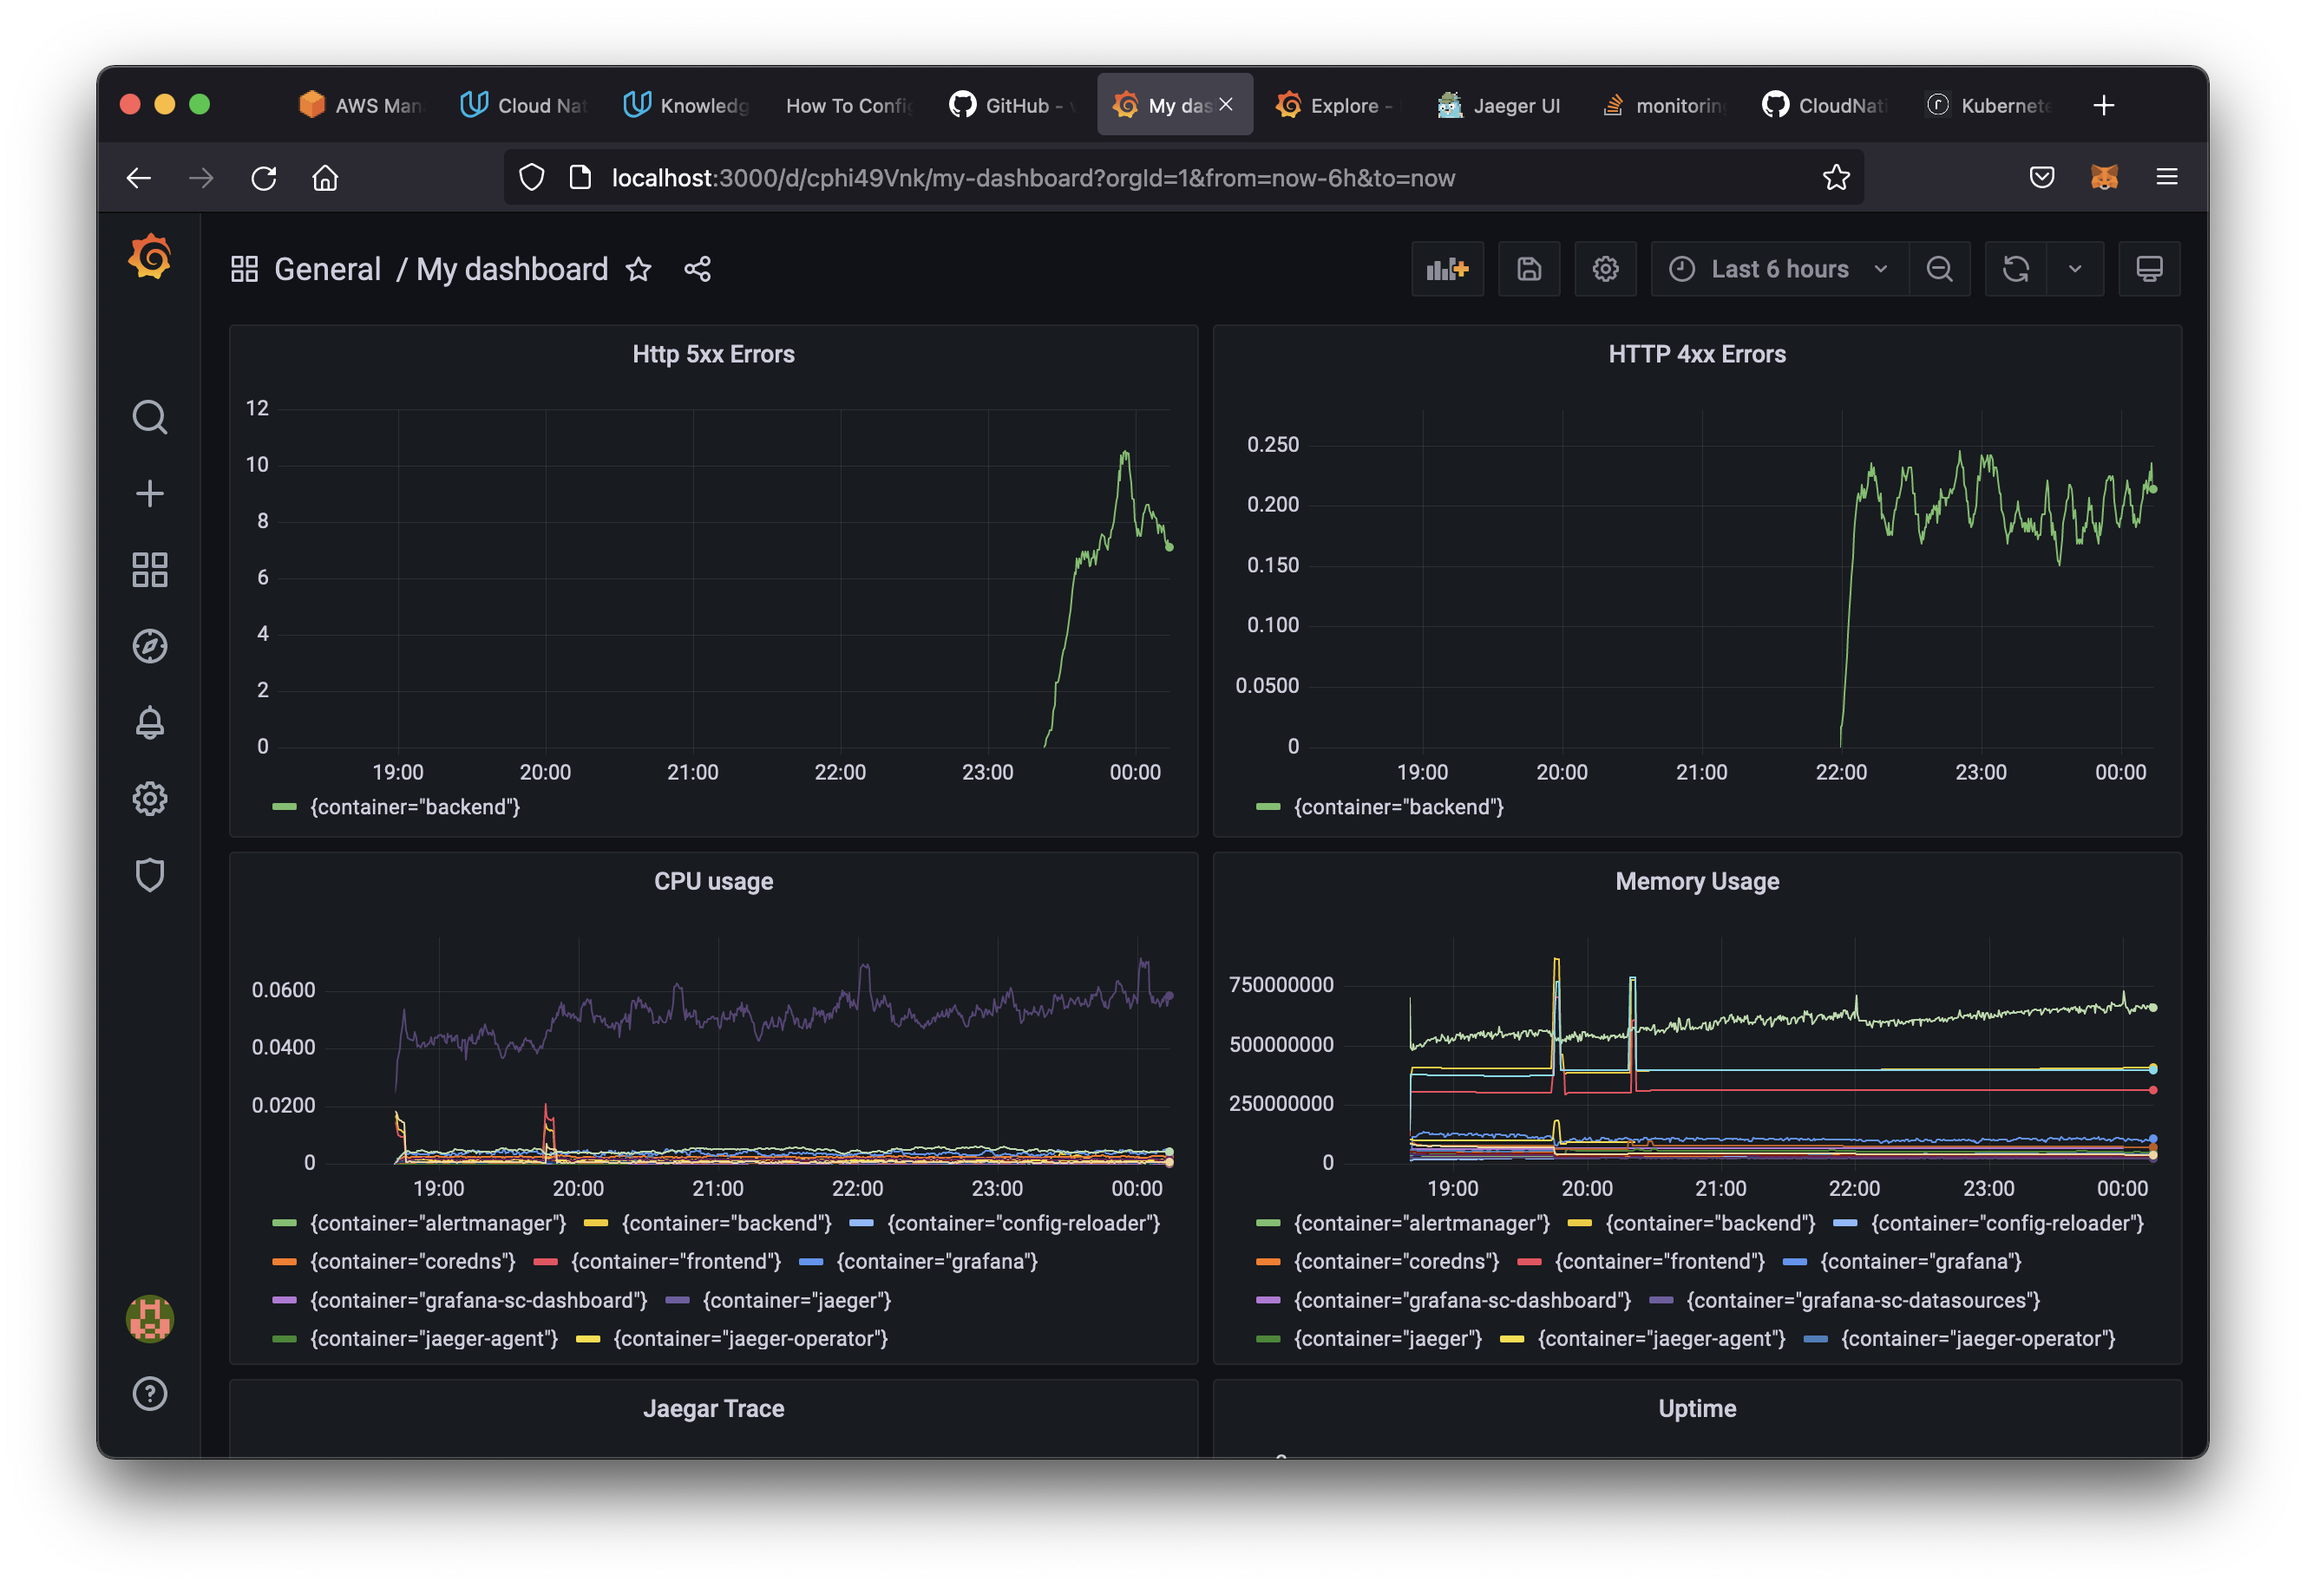
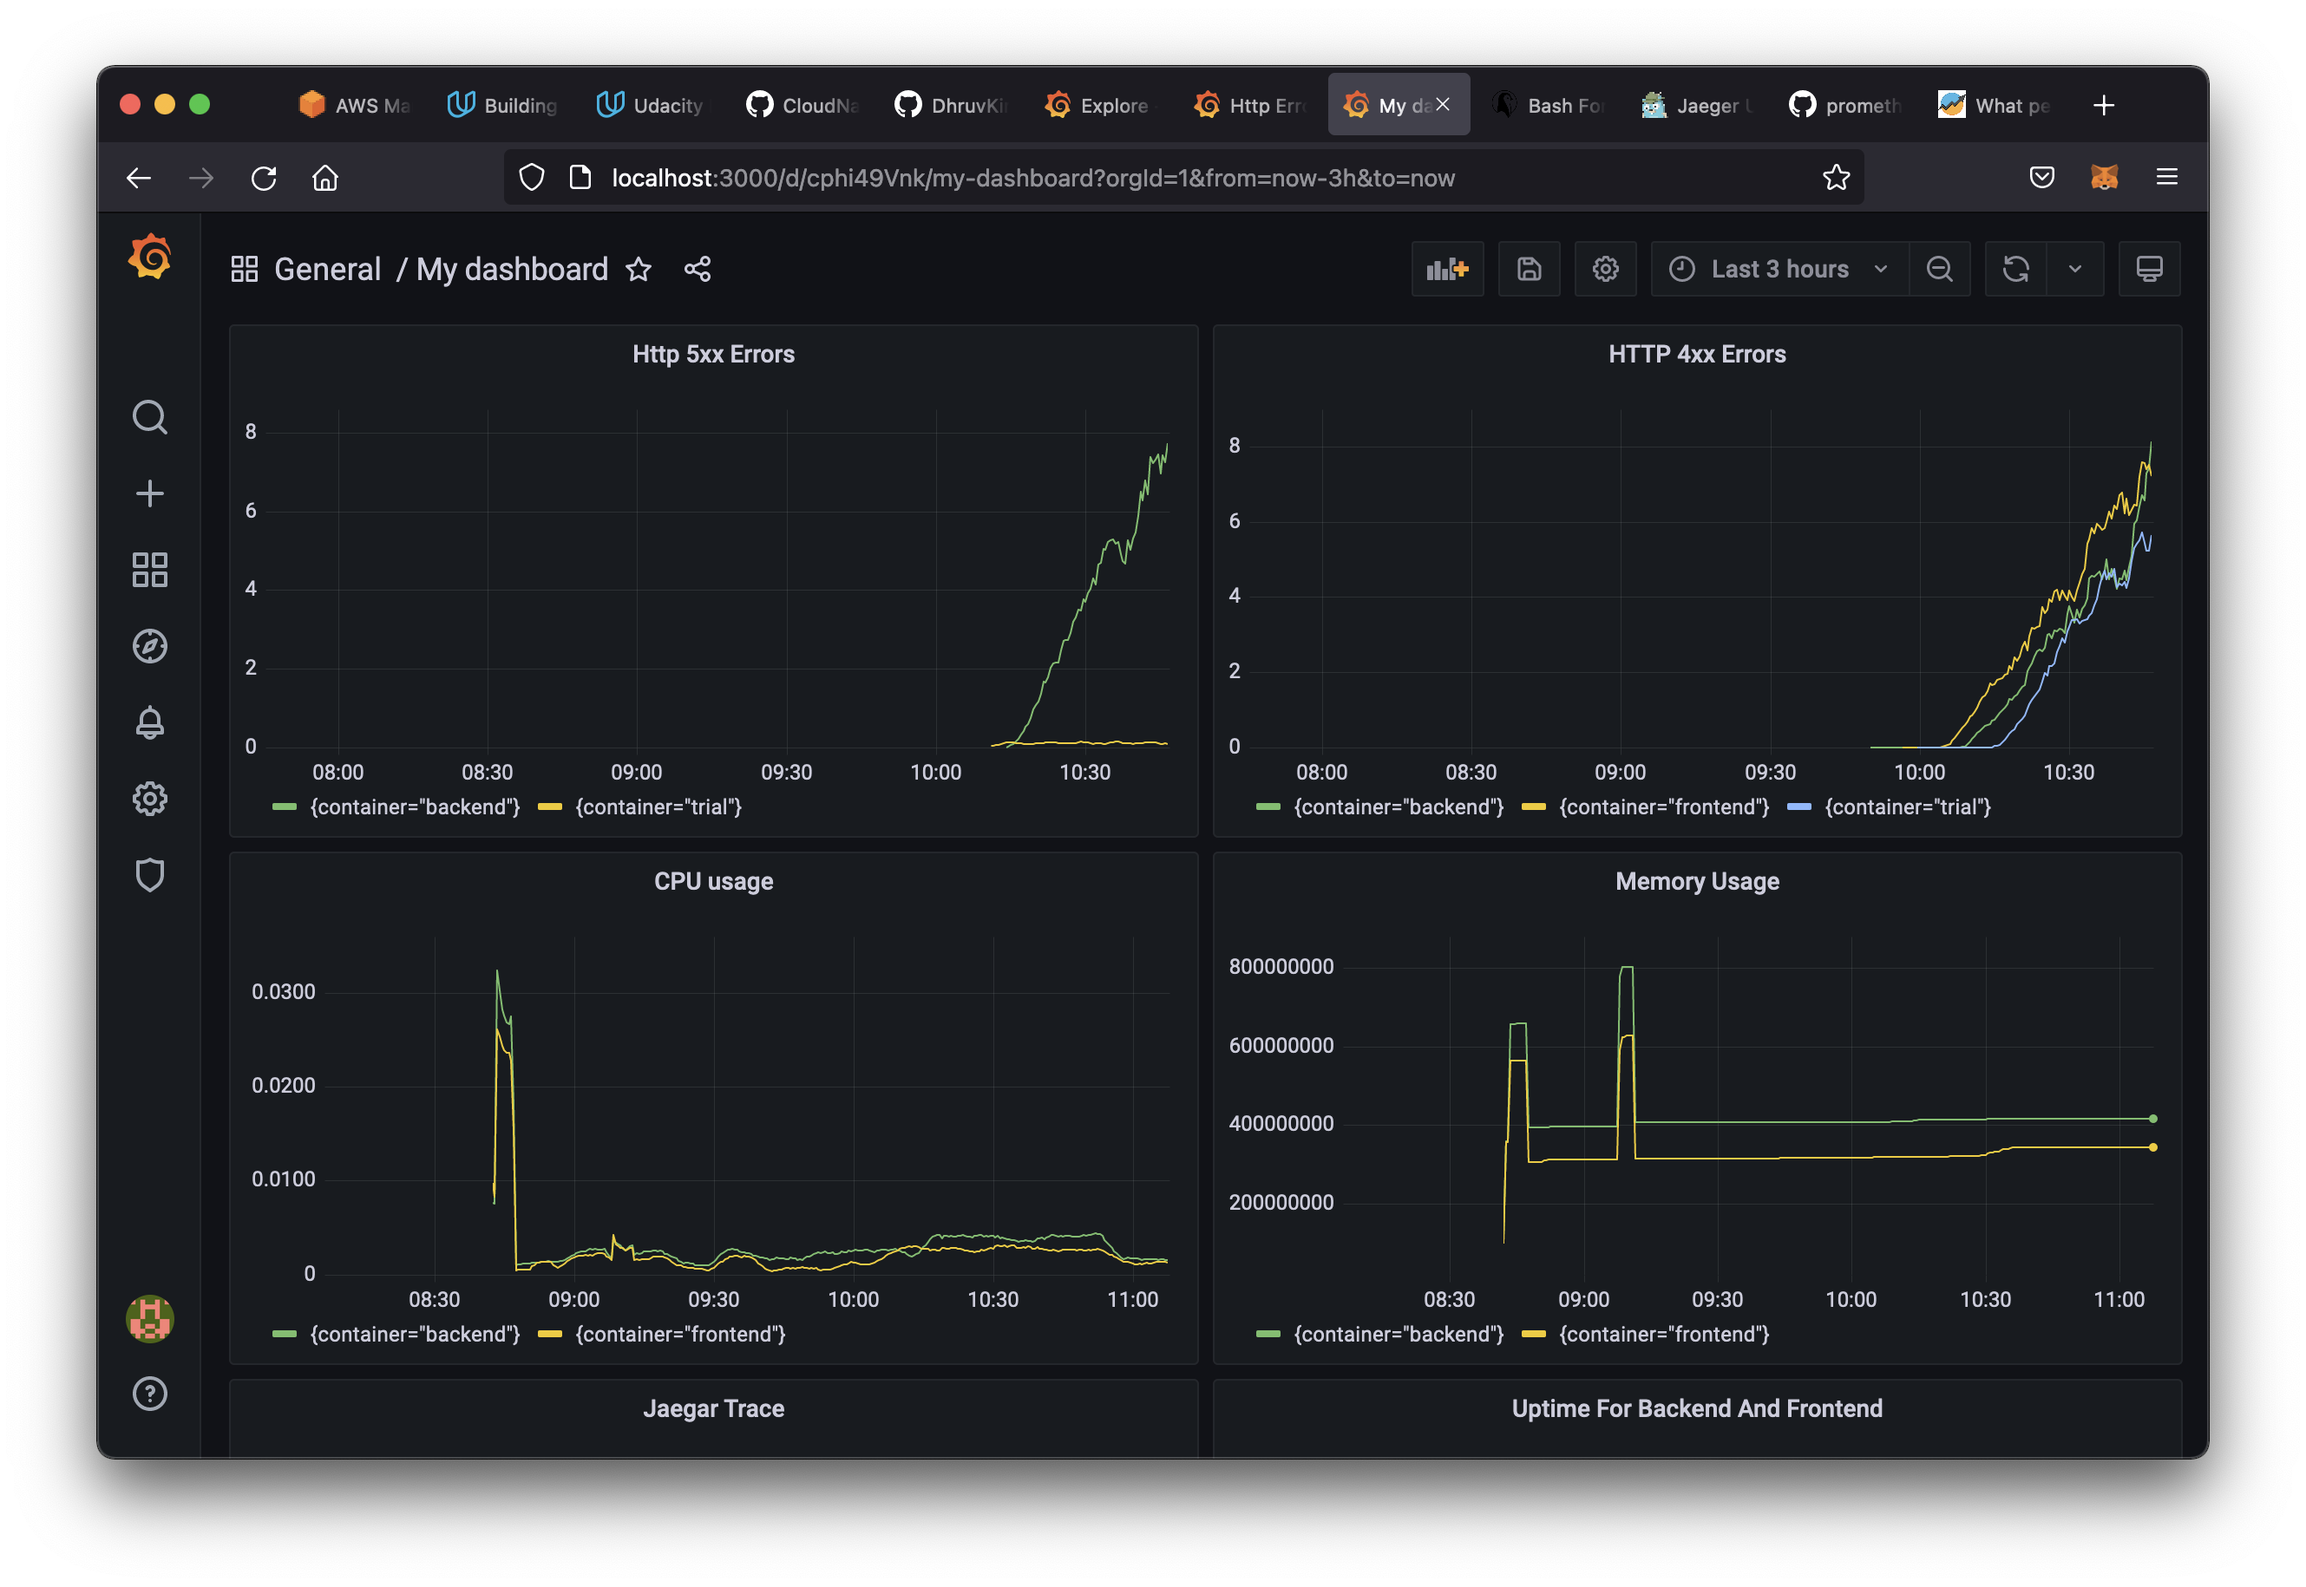
Update README.md

diff --git a/README.md b/README.md
@@ -37,6 +37,8 @@
 *TODO:* Create a dashboard to measure the uptime of the frontend and backend services We will also want to measure to measure 40x and 50x errors. Create a dashboard that show these values over a 24 hour period and take a screenshot.
 ![HTTP Errors](answer-img/http_error.png)
 
+![Uptime](answer-img/uptime_graph.png)
+
 ## Tracing our Flask App
 *TODO:*  We will create a Jaeger span to measure the processes on the backend. Once you fill in the span, provide a screenshot of it here.
 ![Jaegar Traces](answer-img/jaegar_traces.png)
@@ -71,10 +73,24 @@ Description: Sending a post request to the `/star` endpoint returns a 500 status
 - Service uptime should be greater than 99.95%
 - HTTP status code should be 20X for more than 99.95% of requests
 - HTTP status code should be 50X or 40x for less than 0.05% of requests
+- HTTP request average response time should be less than 100ms.
 
 
 ## Building KPIs for our plan
 *TODO*: Now that we have our SLIs and SLOs, create KPIs to accurately measure these metrics. We will make a dashboard for this, but first write them down here.
+
+- Service uptime should be greater than 99.95%
+    - Using the prometheus `up` function we can track the uptime value of all containers.
+- HTTP status code should be 20X for more than 99.95% of requests
+    - The `flask_prometheus_exporter` provides us metrics from inside the flask applications. We can calculate the percentage of requests with 20x status code using the `flask_http_request_total` metric from the exporter.
+- HTTP status code should be 50X or 40x for less than 0.05% of requests
+    - The `flask_prometheus_exporter` provides us metrics from inside the flask applications. We can calculate the percentage of requests with 5xx or 4xx status code using the `flask_http_request_total` metric from the exporter.
+- HTTP request average response time should be less than 100ms.
+    - The `flask_prometheus_exporter` provides us metrics from inside the flask applications. We can calculate the the latency of requests using the `flask_http_request_duration_seconds_sum` and `flask_http_request_total` metrics from the exporter.
+- CPU usage should be less than 70%
+    - The node_exporter provides metrics for the containers in a cluster. The `container_cpu_user_seconds_total` metric can be used in tracking this in the cluster.
+- Memory usage should be less than 70%.
+    - The node_exporter provides metrics for the containers in a cluster. The `container_memory_usage_bytes` metric can be used in tracking this in the cluster.
 
 - Service uptime all applications should be greater than 99.95%
 - HTTP request average response time should be less than 100ms.
@@ -85,11 +101,18 @@ Description: Sending a post request to the `/star` endpoint returns a 500 status
 ## Final Dashboard
 *TODO*: Create a Dashboard containing graphs that capture all the metrics of your KPIs and adequately representing your SLIs and SLOs. Include a screenshot of the dashboard here, and write a text description of what graphs are represented in the dashboard.  
 
-- Http 4xx Error, Http 5xx Error, Memory Usage, CPU usage
+- The graph below has the following KPIs:
+    - HTTP 5xx Error - This displays the number of 5xx status codes from both the frontend and backend
+    - HTTP 4xx Errors - This displays the number of 4xx status codes from both the frontend and backend
+    - CPU Usage - This keeps track of the CPU usage in both the frontend and backend
+    - Memory Usage - This keeps track of the Memory usage in both the frontend and backend
 
 ![Final Graph](answer-img/final_graph_1.png)
 
 
-- Jaegar Trace, Latency, uptime
+- The graph below has the following KPIs:
+    - Jaegar Trace - This tracks the number of traces from Jaegar
+    - Uptime - This displays the uptime percentage of both the frontend and backend
+    - Latency - This measures the latency in requests in both the frontend and backend
 
 ![Final Graph](answer-img/final_graph_2.png)
